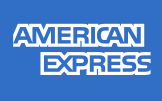
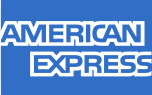
version 0.0.7

diff --git a/lib/card_alertas.dart b/lib/card_alertas.dart
@@ -1,0 +1,142 @@
+import 'package:flutter/material.dart';
+
+class CardAlertas extends StatelessWidget {
+  @override
+  Widget build(BuildContext cotext) {
+    Widget alertas = new Container(
+      padding: new EdgeInsets.symmetric(horizontal: 16.0, vertical: 18.0),
+      child: new Row(
+        mainAxisAlignment: MainAxisAlignment.spaceBetween,
+        children: <Widget>[
+          new Container(
+            width: 60.0,
+            //alignment: new FractionalOffset(0.5, 0.5),
+            decoration: new BoxDecoration(
+              border: new Border(
+                right: new BorderSide(style: BorderStyle.solid, color: new Color(0xFF9E9E9E)),
+                top: new BorderSide(style: BorderStyle.solid, color: new Color(0xFF9E9E9E)),
+                left: new BorderSide(style: BorderStyle.solid, color: new Color(0xFF9E9E9E)),
+                bottom: new BorderSide(style: BorderStyle.solid, color: new Color(0xFF9E9E9E)),
+                )
+            ),
+            child: new Column(
+              //crossAxisAlignment: CrossAxisAlignment.center,
+              children: <Widget>[
+                new Text(
+                  '0',
+                  style: new TextStyle(
+                    fontSize: 35.0,
+                    fontFamily: 'Roboto',
+                    color: new Color(0xFFF44336)
+                  ),
+                ),
+                new Text(
+                  'contas a receber',
+                  textAlign: TextAlign.center,
+                  softWrap: true,
+                  style: new TextStyle(
+                    fontSize: 12.0,
+                    fontFamily: 'Roboto',
+                    color: new Color(0xFF9E9E9E)
+                  ),
+                ),
+              ],
+            ),
+          ),
+          new Container(
+            width: 60.0,
+            decoration: new BoxDecoration(
+              border: new Border.all( color: new Color(0xFF9E9E9E)),
+              //border: new Border(right: new BorderSide(
+              //  style: BorderStyle.solid,
+              //  color: new Color(0xFF9E9E9E),
+              //))
+            ),
+            child: new Column(
+              //crossAxisAlignment: CrossAxisAlignment.center,
+              children: <Widget>[
+                new Text(
+                  '0',
+                  style: new TextStyle(
+                    fontSize: 35.0,
+                    fontFamily: 'Roboto',
+                    color: new Color(0xFFF44336)
+                  ),
+                ),
+                new Text(
+                  'contas a pagar',
+                  textAlign: TextAlign.center,
+                  softWrap: true,
+                  style: new TextStyle(
+                    fontSize: 12.0,
+                    fontFamily: 'Roboto',
+                    color: new Color(0xFF9E9E9E)
+                  ),
+                ),
+              ],
+            ),
+          ),
+          new Container(
+            width: 60.0,
+            decoration: new BoxDecoration(
+              border: new Border.all( color: new Color(0xFF9E9E9E)),
+              //border: new Border(right: new BorderSide(
+              //  style: BorderStyle.solid,
+              //  color: new Color(0xFF9E9E9E),
+              //))
+            ),
+            child: new Column(
+              //crossAxisAlignment: CrossAxisAlignment.center,
+              children: <Widget>[
+                new Text(
+                  '0',
+                  style: new TextStyle(
+                    fontSize: 35.0,
+                    fontFamily: 'Roboto',
+                    color: new Color(0xFFF44336)
+                  ),
+                ),
+                new Text(
+                  'contas atrasadas',
+                  textAlign: TextAlign.center,
+                  softWrap: true,
+                  style: new TextStyle(
+                    fontSize: 12.0,
+                    fontFamily: 'Roboto',
+                    color: new Color(0xFF9E9E9E)
+                  ),
+                ),
+              ],
+            ),
+          ),
+        ],
+      ),
+    );
+
+    return new Container(
+      padding: new EdgeInsets.only(bottom: 6.0, right: 6.0, left: 6.0),
+      child: new  Card(
+        child: new Column(
+          crossAxisAlignment: CrossAxisAlignment.start,
+          children: <Widget>[
+            new Container(
+              padding: new EdgeInsets.only(left: 18.0, top: 18.0),
+              child: new Text(
+              'Alertas da semana',
+                style: new TextStyle(
+                  fontSize: 14.0,
+                  fontFamily: 'Roboto',
+                  color: new Color(0xFF757575),
+                  fontWeight: FontWeight.bold,
+                ),
+              ),
+            ),
+            alertas,            
+          ]
+        ),
+      ),
+    );
+  }
+
+  
+}

diff --git a/lib/card_cartoes.dart b/lib/card_cartoes.dart
@@ -11,8 +11,8 @@ class CardCartoes extends StatelessWidget {
           new Container(
             padding: new EdgeInsets.only(right: 24.0),
             child: new CircleAvatar(
-              backgroundImage: new AssetImage('lib/images/cartao.png'), //0xFF306FC5 amex
-              backgroundColor: new Color(0xFFF5F5F5), //0xFFF5F5F5
+              backgroundImage: new AssetImage('lib/images/amex.png'), //0xFF306FC5 amex
+              backgroundColor: new Color(0xFF306FC5), //0xFFF5F5F5
               radius: 16.0,
             )
           ),

diff --git a/lib/main.dart b/lib/main.dart
@@ -3,6 +3,7 @@ import "package:flutter/material.dart";
 import "card_saldo.dart";
 import "card_contas.dart";
 import "card_cartoes.dart";
+import "card_alertas.dart";
 
 void main() {
   runApp(new ControlleApp());
@@ -49,6 +50,7 @@ class HomePage extends StatelessWidget {
         new CardSaldo(),
         new CardContas(),
         new CardCartoes(),
+        new CardAlertas(),
       ],
     )
     
